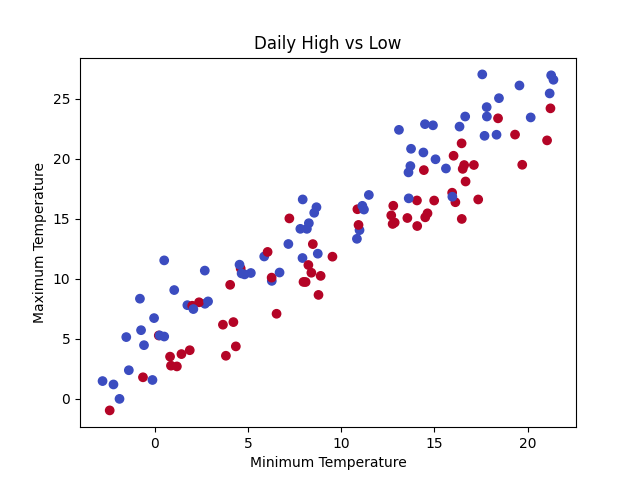
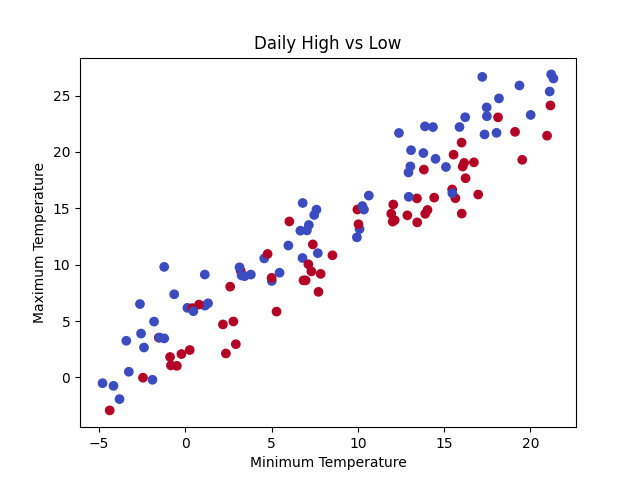
Question 4 completed.

diff --git a/assignments_02/warmup_02.py b/assignments_02/warmup_02.py
@@ -50,12 +50,30 @@ plt.ylabel("Maximum Temperature")
 plt.savefig("outputs/high_vs_low.png")
 plt.show()
 
-#Is Rainy lets us see the effect of rain on max temperature. If it rained it usually was less warm. Red rainy days sit below blue dry days. It adds additonal informatio so should
+#Is Rainy lets us see the effect of rain on max temperature. If it rained it usually was less warm. Red rainy days sit below blue dry days. It adds additional information so should
 # be a feature in the model.
 
 #Q2
+shaped_temp_min = temp_min.reshape(-1, 1)
+x_train, x_test, y_train, y_test = train_test_split(shaped_temp_min, temp_max, test_size=0.2, random_state=42)
+
+print("Training set shape:", x_train.shape, y_train.shape)
+print("Test set shape:", x_test.shape, y_test.shape)
+
 
 #Q3
+lin_reg_model = LinearRegression()
+lin_reg_model.fit(x_train, y_train)
+
+print("Slope:", lin_reg_model.coef_[0])
+print("Model intercept:", lin_reg_model.intercept_)
+
+lin_reg_pred = lin_reg_model.predict(x_test)
+
+print("RMSE:", np.sqrt(mean_squared_error(y_test, lin_reg_pred)))
+print("R-squared:", lin_reg_model.score(x_test, y_test))
+
+# Slope is .94 which means for every 1 degree increase in min temp, the model estimates that the max temp increases by .94 degrees.
 
 #Q4
 
